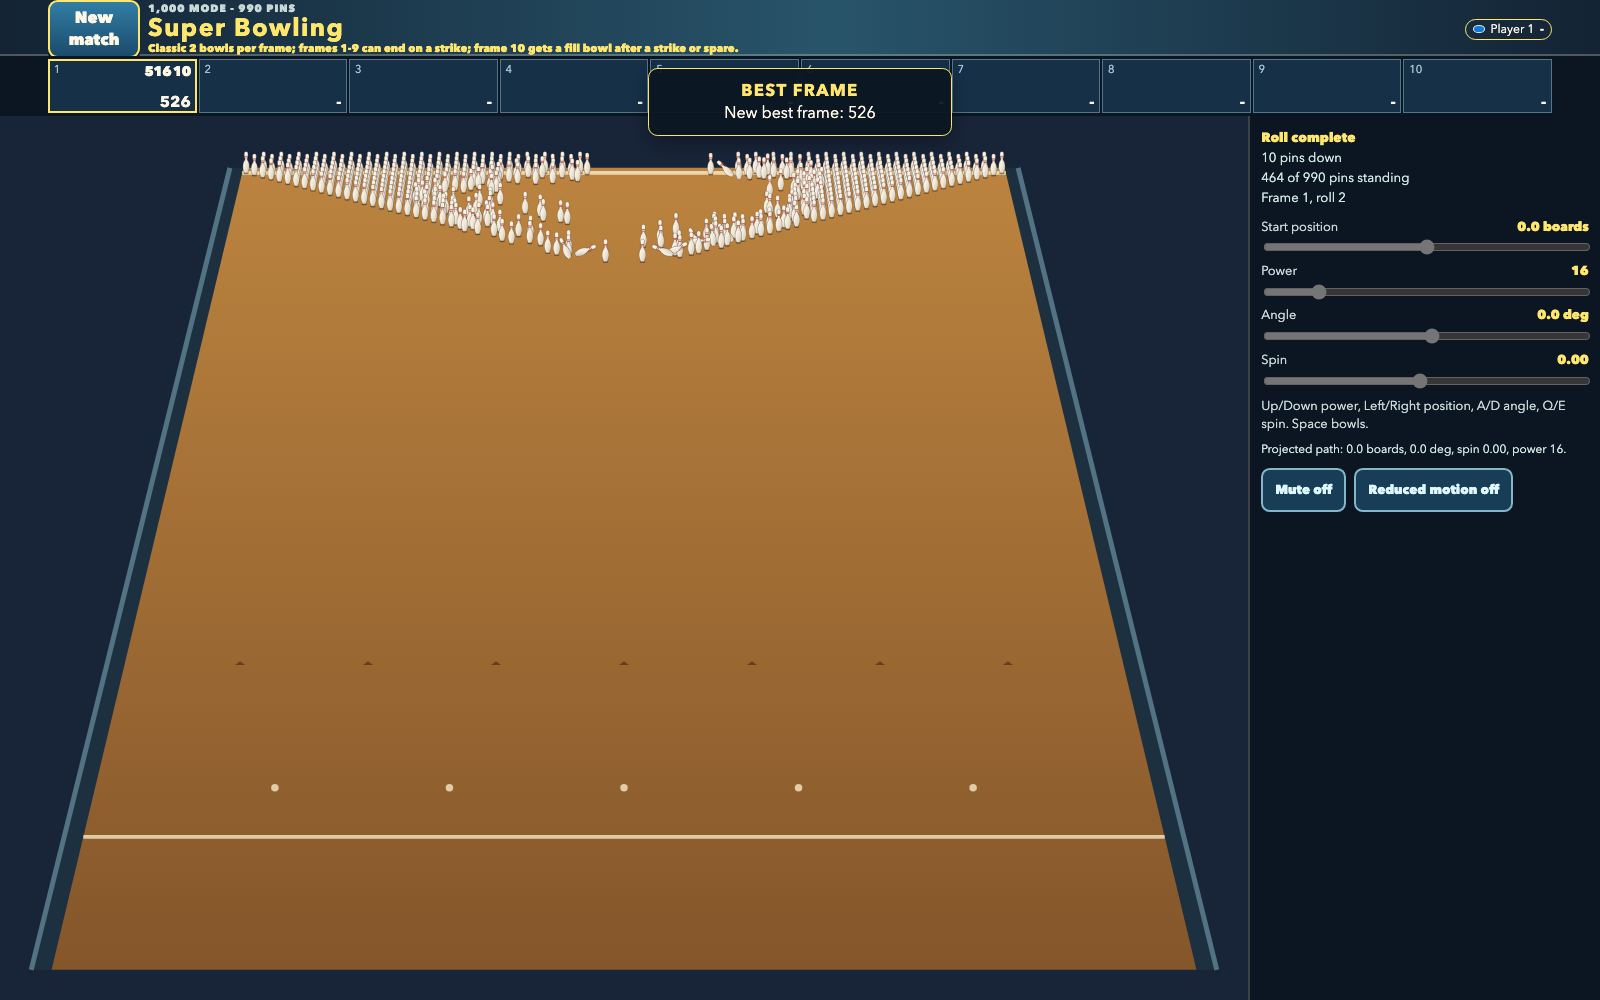
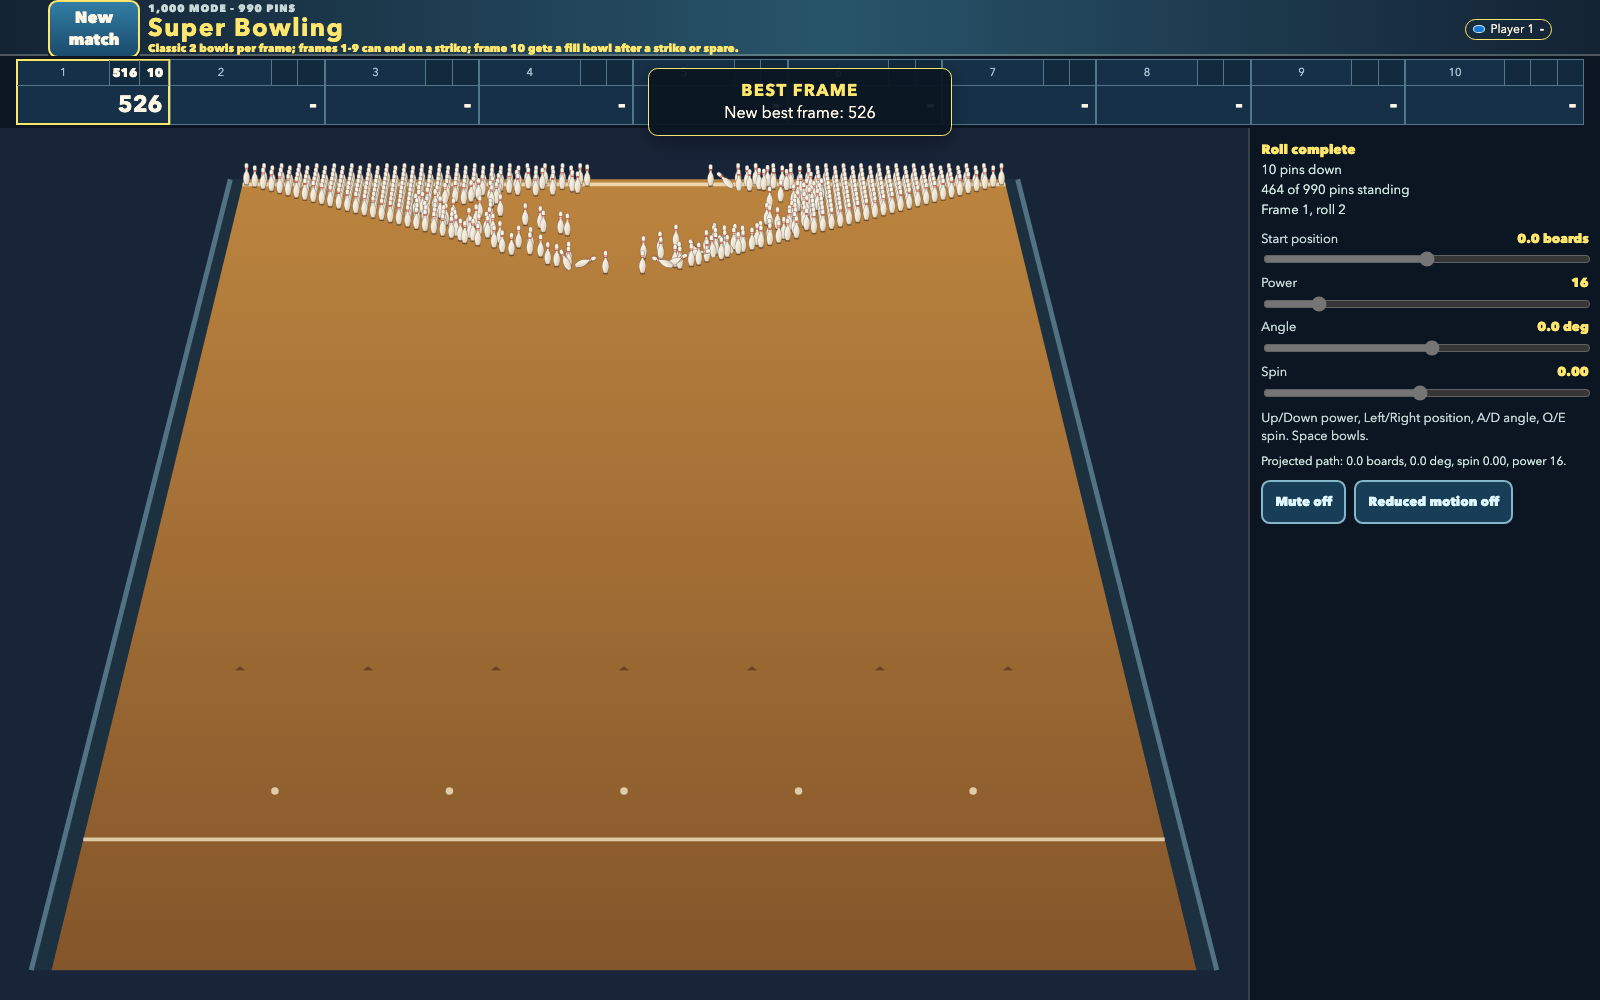
Rebuilt the ten-frame strip as a real bowling scorecard: every roll h...
bordered box above a separate cumulative total, frame 10 carries its extra box, and configurable ...

diff --git a/src/app/game.tsx b/src/app/game.tsx
@@ -1,4 +1,13 @@
-import { For, Show, createEffect, createSignal, onCleanup, onMount, type JSX } from "solid-js";
+import {
+  For,
+  Index,
+  Show,
+  createEffect,
+  createSignal,
+  onCleanup,
+  onMount,
+  type JSX,
+} from "solid-js";
 
 import { get_rack_pin_count } from "../config/pin_counts";
 import type {
@@ -28,7 +37,7 @@ import {
   with_reduced_motion,
 } from "../render/camera";
 import type { CameraState } from "../render/contracts";
-import { format_frame_roll_marks } from "../game/score_display";
+import { format_frame_roll_slots } from "../game/score_display";
 import { bowls_per_frame_rule_text } from "../game/bowls_per_frame";
 import type { ModeRecord } from "../save/contracts";
 import { create_game_renderer, type GameRenderer } from "../render/game_renderer";
@@ -609,6 +618,7 @@ export function Game(props: GameProps): JSX.Element {
       <section
         class="score_strip"
         aria-label={`Ten-frame ${match_state().pin_count.toLocaleString()}-pin score card for ${active_player().name}`}
+        data-score-digits={String(match_state().pin_count).length}
       >
         <For each={Array.from({ length: 10 }, (_, frame_index) => frame_index)}>
           {(frame_index): JSX.Element => {
@@ -622,27 +632,34 @@ export function Game(props: GameProps): JSX.Element {
               >
                 <span class="frame_number">{frame_index + 1}</span>
                 <span class="frame_rolls">
-                  <For
-                    each={
-                      frame() === undefined
-                        ? []
-                        : format_frame_roll_marks(
-                            frame()!,
-                            match_state().pin_count,
-                            match_state().bowls_per_frame,
-                          )
-                    }
+                  <Index
+                    each={format_frame_roll_slots(
+                      frame_index,
+                      frame(),
+                      match_state().pin_count,
+                      match_state().bowls_per_frame,
+                    )}
                   >
                     {(mark) => (
                       <span
-                        data-roll-mark={mark === "X" ? "strike" : mark === "/" ? "spare" : "roll"}
+                        class="frame_roll_box"
+                        data-roll-box
+                        data-roll-mark={
+                          mark() === undefined
+                            ? "empty"
+                            : mark() === "X"
+                              ? "strike"
+                              : mark() === "/"
+                                ? "spare"
+                                : "roll"
+                        }
                       >
-                        {mark}
+                        {mark() ?? ""}
                       </span>
                     )}
-                  </For>
+                  </Index>
                 </span>
-                <strong>{score_text(frame()?.score)}</strong>
+                <strong class="frame_total">{score_text(frame()?.score)}</strong>
               </div>
             );
           }}

diff --git a/src/style.css b/src/style.css
@@ -546,21 +546,27 @@ input:focus-visible {
   padding: 0.32rem 0.46rem;
 }
 .score_strip {
+  --roll-box-min-width: 1.35rem;
   grid-area: score;
   display: grid;
-  grid-template-columns: repeat(10, minmax(0, 1fr));
-  gap: 2px;
-  block-size: 3.75rem;
-  padding: 0.16rem clamp(0.75rem, 3vw, 3.5rem);
+  grid-template-columns: repeat(9, minmax(max-content, 1fr)) minmax(max-content, 1.16fr);
+  gap: 0;
+  block-size: 4.5rem;
+  padding: 0.18rem clamp(0.5rem, 1vw, 1rem);
+  overflow-x: auto;
+  scrollbar-width: thin;
   background: #0b1622;
+}
+.score_strip[data-score-digits="3"] {
+  --roll-box-min-width: 1.65rem;
 }
 .frame_cell {
   display: grid;
-  grid-template-columns: 1.1rem 1fr;
-  grid-template-rows: minmax(0, 1fr) minmax(0, 1fr);
+  grid-template-columns: minmax(1.35rem, 1fr) max-content;
+  grid-template-rows: 1.65rem minmax(0, 1fr);
   min-height: 0;
+  min-width: max-content;
   height: 100%;
-  padding: 0.16rem 0.3rem;
   border: 1px solid #53778a;
   background: #163047;
 }
@@ -569,24 +575,42 @@ input:focus-visible {
   box-shadow: inset 0 0 0 1px #ffe76d;
 }
 .frame_number {
+  display: grid;
+  place-items: center;
+  border-bottom: 1px solid #53778a;
   color: #a9c7d2;
   font-size: 0.7rem;
 }
 .frame_rolls {
-  display: flex;
-  justify-content: flex-end;
-  gap: 0.1rem;
+  display: grid;
+  grid-auto-columns: minmax(var(--roll-box-min-width), 1fr);
+  grid-auto-flow: column;
+  justify-self: stretch;
   min-width: 0;
-  overflow-x: auto;
-  font-size: clamp(0.55rem, 0.85vw, 0.9rem);
+  font-size: clamp(0.62rem, 0.75vw, 0.82rem);
   font-weight: 900;
-  letter-spacing: -0.04em;
+  font-variant-numeric: tabular-nums;
   white-space: nowrap;
+}
+.frame_roll_box {
+  display: grid;
+  place-items: center;
+  min-width: var(--roll-box-min-width);
+  padding-inline: 0.12rem;
+  border-bottom: 1px solid #53778a;
+  border-left: 1px solid #53778a;
+  background: rgba(8, 26, 40, 0.26);
 }
 .frame_cell strong {
   grid-column: 1 / -1;
-  align-self: end;
+  display: flex;
+  align-items: center;
+  justify-content: flex-end;
+  min-width: 0;
+  padding: 0.12rem 0.42rem 0.16rem;
   color: #fff8e7;
+  font-size: clamp(1rem, 1.45vw, 1.45rem);
+  font-variant-numeric: tabular-nums;
   line-height: 1;
   text-align: right;
 }
@@ -950,8 +974,7 @@ input:focus-visible {
     block-size: auto;
   }
   .frame_cell {
-    grid-template-rows: auto auto;
-    min-height: 2.4rem;
+    min-height: 4.15rem;
     height: auto;
   }
   .play_shell {
@@ -1026,8 +1049,7 @@ input:focus-visible {
     block-size: auto;
   }
   .frame_cell {
-    grid-template-rows: auto auto;
-    min-height: 2.4rem;
+    min-height: 4.15rem;
     height: auto;
   }
   .play_shell {
@@ -1095,7 +1117,7 @@ input:focus-visible {
     padding-block: 0.14rem;
   }
   .frame_cell {
-    min-height: 2.25rem;
+    min-height: 4rem;
   }
   .control_deck {
     padding-block: 0.3rem;

diff --git a/tests/playwright/e2e/game_layout.spec.ts b/tests/playwright/e2e/game_layout.spec.ts
@@ -114,8 +114,7 @@ test("16:10 desktop puts controls beside a full-height lane after compact chrome
   const top_chrome_height = score.y + score.height - header.y;
 
   // WP-B6 locks the 16:10 desktop geometry before camera calibration resumes.
-  expect(top_chrome_height).toBeLessThanOrEqual(120);
-  expect(top_chrome_height).toBeLessThanOrEqual(1000 * 0.12);
+  expect(top_chrome_height).toBeLessThanOrEqual(1000 * 0.14);
   expect(roster.y).toBeGreaterThanOrEqual(header.y - 0.5);
   expect(roster.y + roster.height).toBeLessThanOrEqual(header.y + header.height + 0.5);
   expect(roster.width).toBeGreaterThan(40);
@@ -145,7 +144,7 @@ test("short desktop retains a distinct right-side control panel without clipping
   await start_match(page);
 
   const { header, score, lane, controls } = await layout_rectangles(page);
-  expect(score.y + score.height - header.y).toBeLessThanOrEqual(120);
+  expect(score.y + score.height - header.y).toBeLessThanOrEqual(720 * 0.2);
   expect_vertically_adjacent(score, lane);
   expect(controls.x).toBeGreaterThanOrEqual(lane.x + lane.width - 0.5);
   expect(controls.y).toBeCloseTo(lane.y, 0);
@@ -174,7 +173,7 @@ test("four players stay readable in compact top chrome while lane and controls r
   await start_four_player_match(page);
 
   const { header, score, lane, controls } = await layout_rectangles(page);
-  expect(score.y + score.height - header.y).toBeLessThanOrEqual(120);
+  expect(score.y + score.height - header.y).toBeLessThanOrEqual(1000 * 0.14);
   expect_vertically_adjacent(header, score);
   expect_vertically_adjacent(score, lane);
   expect(lane.width).toBeGreaterThanOrEqual(1600 * 0.75);
@@ -239,8 +238,7 @@ test("zero-knock result keeps the compact desktop chrome and lane geometry", asy
   const top_chrome_height = result.score.y + result.score.height - result.header.y;
 
   // A populated first frame must not make result-state chrome steal the lane.
-  expect(top_chrome_height).toBeLessThanOrEqual(120);
-  expect(top_chrome_height).toBeLessThanOrEqual(1000 * 0.12);
+  expect(top_chrome_height).toBeLessThanOrEqual(1000 * 0.14);
   for (const key of ["lane", "controls"] as const) {
     expect(result[key].x).toBeCloseTo(aiming[key].x, 0);
     expect(result[key].y).toBeCloseTo(aiming[key].y, 0);
@@ -254,6 +252,7 @@ test("zero-knock result keeps the compact desktop chrome and lane geometry", asy
 
   const populated_score = page.locator("[data-frame-cell]").first().locator("strong");
   await expect(populated_score).toHaveText("0");
+  await expect(page.locator("[data-frame-cell]").first().locator("[data-roll-box]")).toHaveCount(2);
   const score_metrics = await populated_score.evaluate((score) => {
     const score_bounds = score.getBoundingClientRect();
     const cell_bounds = score.closest<HTMLElement>("[data-frame-cell]")?.getBoundingClientRect();

diff --git a/src/game/score_display.ts b/src/game/score_display.ts
@@ -23,3 +23,21 @@ export function format_frame_roll_marks(
     return String(roll);
   });
 }
+
+/** Places roll marks into the fixed boxes shown by a bowling score card. */
+export function format_frame_roll_slots(
+  frame_index: number,
+  frame: FrameScore | undefined,
+  pin_count: RackPinCount,
+  bowls_per_frame = 2,
+): Array<string | undefined> {
+  const slot_count = frame_index === 9 ? bowls_per_frame + 1 : bowls_per_frame;
+  const marks =
+    frame === undefined ? [] : format_frame_roll_marks(frame, pin_count, bowls_per_frame);
+  const classic_strike = bowls_per_frame === 2 && frame_index < 9 && marks[0] === "X";
+  const leading_empty_slots = classic_strike ? slot_count - marks.length : 0;
+
+  return Array.from({ length: slot_count }, (_, slot_index) => {
+    return marks[slot_index - leading_empty_slots];
+  });
+}

diff --git a/docs/CHANGELOG.md b/docs/CHANGELOG.md
@@ -24,6 +24,9 @@
   their new V4 match history empty.
 - The setup and game surfaces show shared score labels and bowling terms, with
   `-` continuing to represent an unbowled value rather than a zero score.
+- Rebuilt the ten-frame strip as a real bowling scorecard: every roll has a
+  bordered box above a separate cumulative total, frame 10 carries its extra
+  box, and configurable Super frames keep one readable box per available bowl.
 - Reclaimed the 1600 x 1000 play surface with a 116 px top chrome, a 352 px
   side control panel, and a 1248 x 884 lane canvas instead of a bottom control
   deck. The compact score and player chrome leave the lane at least 75% of the
@@ -73,7 +76,7 @@
 
 ### Developer Tests and Notes
 
-- `./check_codebase.sh` passed with 181 Node tests. The full Playwright suite
+- `./check_codebase.sh` passed with 182 Node tests. The full Playwright suite
   passed 33/33 (including the `run_web_server.sh` front door), focused
   practice-record coverage passed 2/2, and `pytest tests/` passed 667.
 - One-time browser and capture review confirmed the live BEST FRAME toast and
